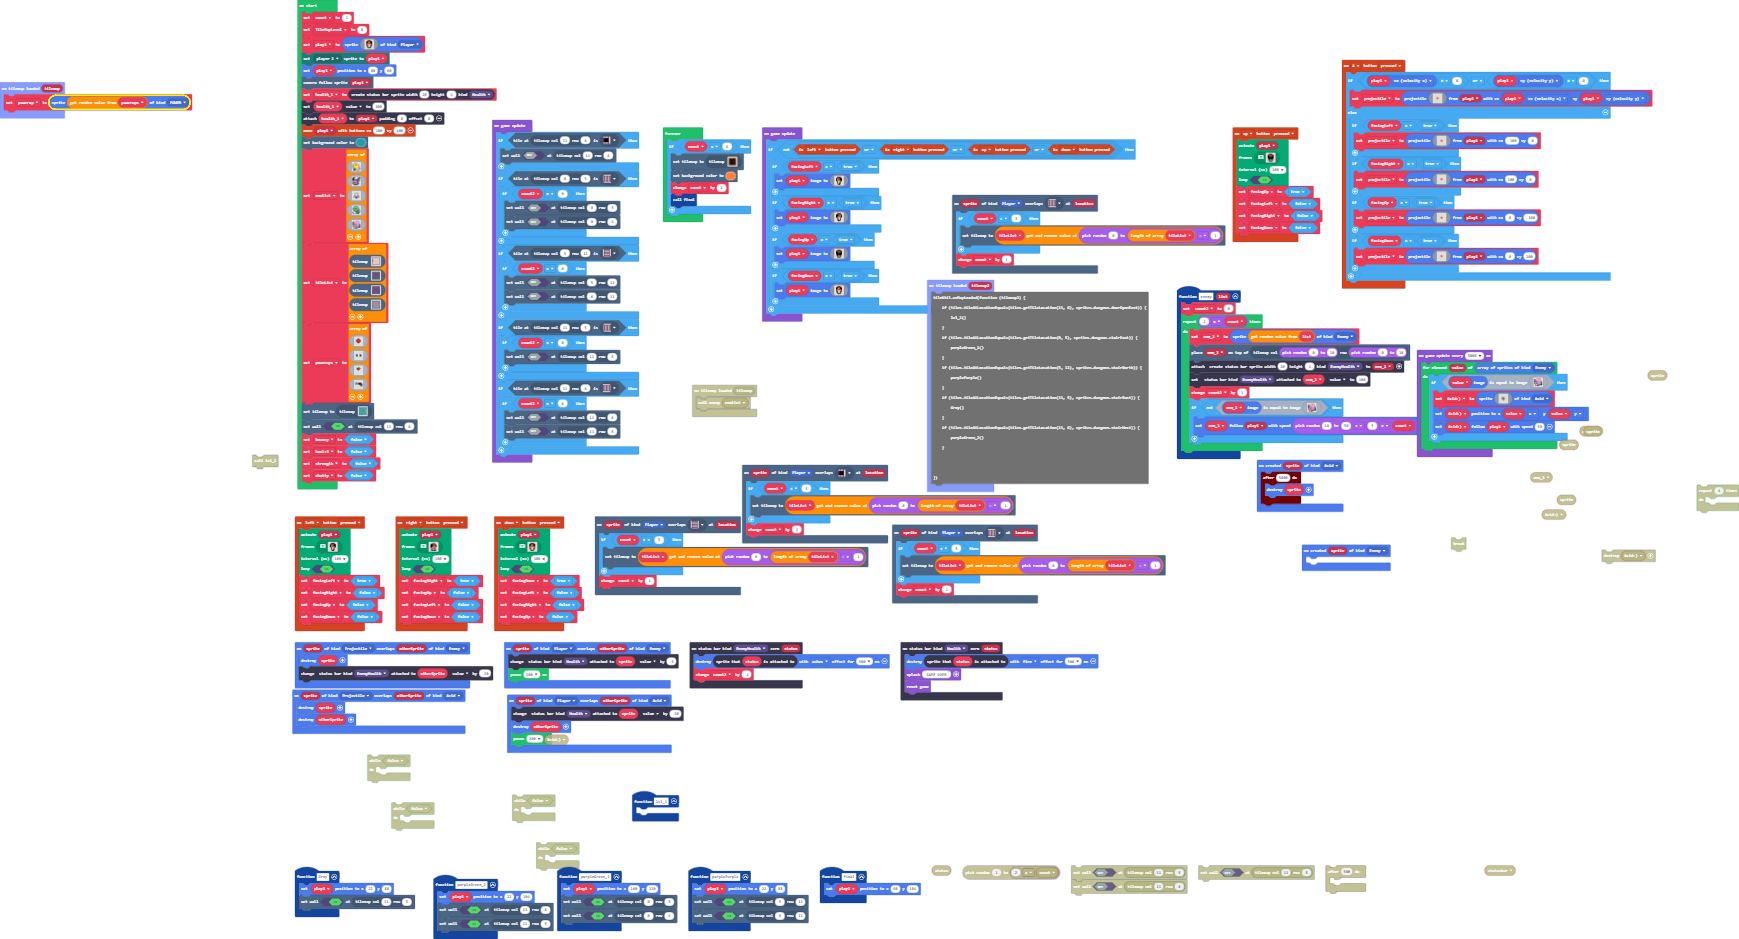
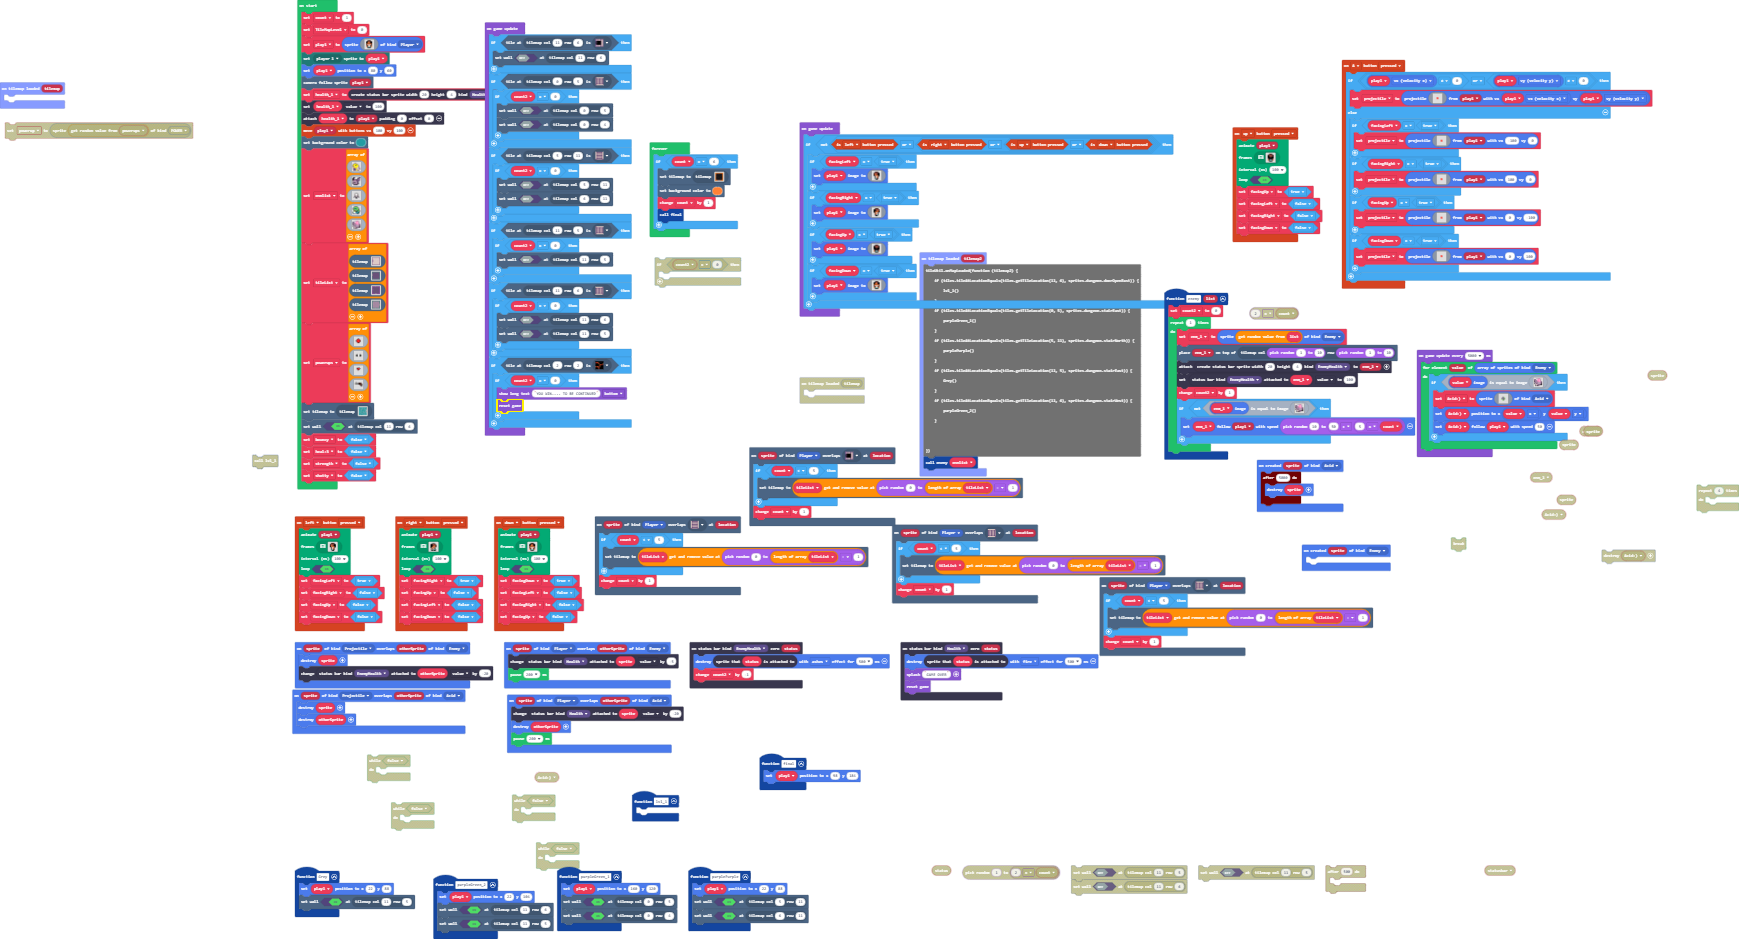
fixed stuff

diff --git a/main.ts b/main.ts
@@ -358,9 +358,9 @@ scene.onOverlapTile(SpriteKind.Player, sprites.dungeon.stairEast, function (spri
 })
 function enemy (list: Image[]) {
     count2 = 0
-    for (let index = 0; index < 2 * count; index++) {
+    for (let index = 0; index < 1; index++) {
         enm_1 = sprites.create(list._pickRandom(), SpriteKind.Enemy)
-        tiles.placeOnTile(enm_1, tiles.getTileLocation(randint(0, 10), randint(0, 10)))
+        tiles.placeOnTile(enm_1, tiles.getTileLocation(randint(1, 10), randint(1, 10)))
         statusbars.create(20, 4, StatusBarKind.EnemyHealth).attachToSprite(enm_1)
         statusbars.getStatusBarAttachedTo(StatusBarKind.EnemyHealth, enm_1).value = 100
         count2 += 1
@@ -370,7 +370,7 @@ function enemy (list: Image[]) {
     }
 }
 tileUtil.onMapLoaded(function (tilemap2) {
-    powerup = sprites.create(powerups._pickRandom(), SpriteKind.POWER)
+	
 })
 function purplePurple () {
     play1.setPosition(22, 88)
@@ -460,6 +460,7 @@ tileUtil.onMapLoaded(function (tilemap2) {
 
     
 })
+enemy(enmlist)
 })
 sprites.onCreated(SpriteKind.Acid, function (sprite) {
     timer.after(5000, function () {
@@ -479,7 +480,6 @@ sprites.onOverlap(SpriteKind.Player, SpriteKind.Enemy, function (sprite, otherSp
     pause(200)
 })
 let Acid: Sprite = null
-let powerup: Sprite = null
 let enm_1: Sprite = null
 let count2 = 0
 let projectile: Sprite = null
@@ -487,8 +487,8 @@ let facingDown = false
 let facingRight = false
 let facingLeft = false
 let facingUp = false
-let powerups: Image[] = []
 let tileList: tiles.TileMapData[] = []
+let enmlist: Image[] = []
 let play1: Sprite = null
 let count = 0
 count = 1
@@ -519,7 +519,7 @@ health_1.value = 100
 health_1.attachToSprite(play1, 0, 0)
 controller.moveSprite(play1, 100, 100)
 scene.setBackgroundColor(6)
-let enmlist = [
+enmlist = [
 assets.image`purplepurp`,
 assets.image`purpgreen1`,
 assets.image`purplegreen2`,
@@ -532,7 +532,7 @@ tilemap`level2`,
 tilemap`level8`,
 tilemap`level5`
 ]
-powerups = [
+let powerups = [
 assets.image`balls lol`,
 assets.image`str`,
 assets.image`Vigor`,
@@ -569,6 +569,12 @@ game.onUpdate(function () {
         if (count2 == 0) {
             tiles.setWallAt(tiles.getTileLocation(11, 6), false)
             tiles.setWallAt(tiles.getTileLocation(11, 5), false)
+        }
+    }
+    if (tiles.tileAtLocationEquals(tiles.getTileLocation(2, 2), assets.tile`myTile9`)) {
+        if (count2 == 0) {
+            game.showLongText("YOU WIN.... TO BE CONTINUED", DialogLayout.Bottom)
+            game.reset()
         }
     }
 })

diff --git a/images.g.ts b/images.g.ts
@@ -201,6 +201,23 @@ f b b b b b b b b 3 3 3 b b b c
 . . . . . . . . . . . . . . . . 
 . . . . . . . . . . . . . . . . 
 `;
+            case "image9":
+            case "car":return img`
+e e e . . . . e e e . . . . 
+c d d c . . c d d c . . . . 
+c b d d f f d d b c . . . . 
+c 3 b d d b d b 3 c . . . . 
+f b 3 d d d d 3 b f . . . . 
+e d d d d d d d d e . . . . 
+e d f d d d d f d e . b f b 
+f d d f d d f d d f . f d f 
+f b d d b b d d 2 f . f d f 
+. f 2 2 2 2 2 2 b b f f d f 
+. f b d d d d d d b b d b f 
+. f d d d d d b d d f f f . 
+. f d f f f d f f d f . . . 
+. f f . . f f . . f f . . . 
+`;
         }
         return null;
     })
